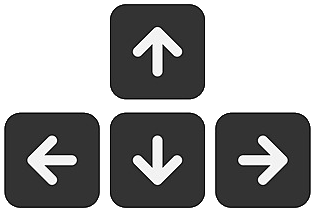
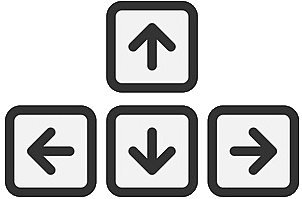
背景やUIを変更

diff --git a/ScenePlay.cpp b/ScenePlay.cpp
@@ -3,7 +3,7 @@
 #include "WindowSize.h"
 
 sCONSTRUCTOR(ScenePlay),
-TM{TurnManager(key)}
+TM(key)
 {
 	Cell::ImageLoad();
 	hanten_image = LoadGraph("image/hanten.png");
@@ -11,7 +11,7 @@ TM{TurnManager(key)}
 	hantenkakutei_image = LoadGraph("image/hantenkakutei.png");
 	puchun_image = LoadGraph("image/puchun.jpg");
 
-	BG = LoadGraph("image/play_bg.png");
+	BG = LoadGraph("image/f9b8879c-64ef-44e5-a979-f6dcf5505d98.png");
 
 	circleImage = LoadGraph("image/maru.png");
 	crossImage = LoadGraph("image/batu.png");

diff --git a/TurnManager.h b/TurnManager.h
@@ -31,9 +31,17 @@ private:
 
 	PreAlert pre;
 
+	int markImage[2];
+	int keyImage[2];
+	int decideImage[2];
+	Float2 UIpos[2];
+
+
 public:
 
 	TurnManager(KeyAction* arg_key);
+	~TurnManager();
+
 
 	bool Input();
 	bool Update();
@@ -44,5 +52,7 @@ public:
 	void ChangeTurn();
 
 	Mark GetWinner() { return winner; };
+
+	void UIDraw();
 };
 

diff --git a/PlayerBase.h b/PlayerBase.h
@@ -9,11 +9,6 @@ protected:
 
 	Int2 selectCell;
 
-	int markImage;
-	int keyImage;
-	int decideImage;
-
-	float UIpos_x;
 
 public:
 	PlayerBase(KeyAction* arg_key)

diff --git a/ScenePlay.h b/ScenePlay.h
@@ -1,4 +1,6 @@
 #pragma once
+#include <memory>
+
 #include "SceneBase.h"
 #include "Float2.h"
 #include "Function.h"
